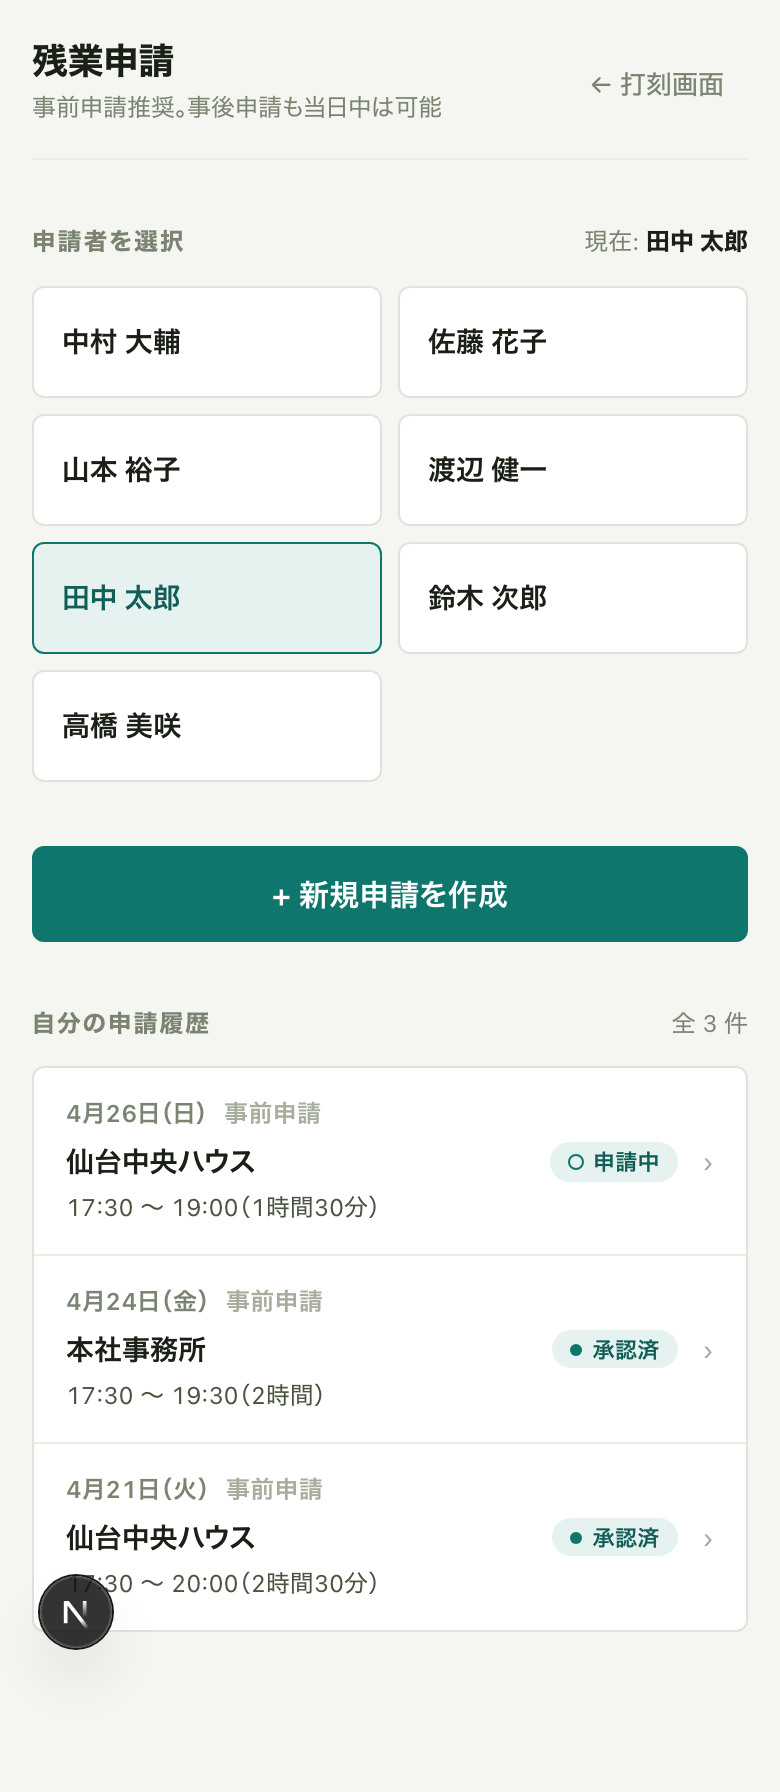
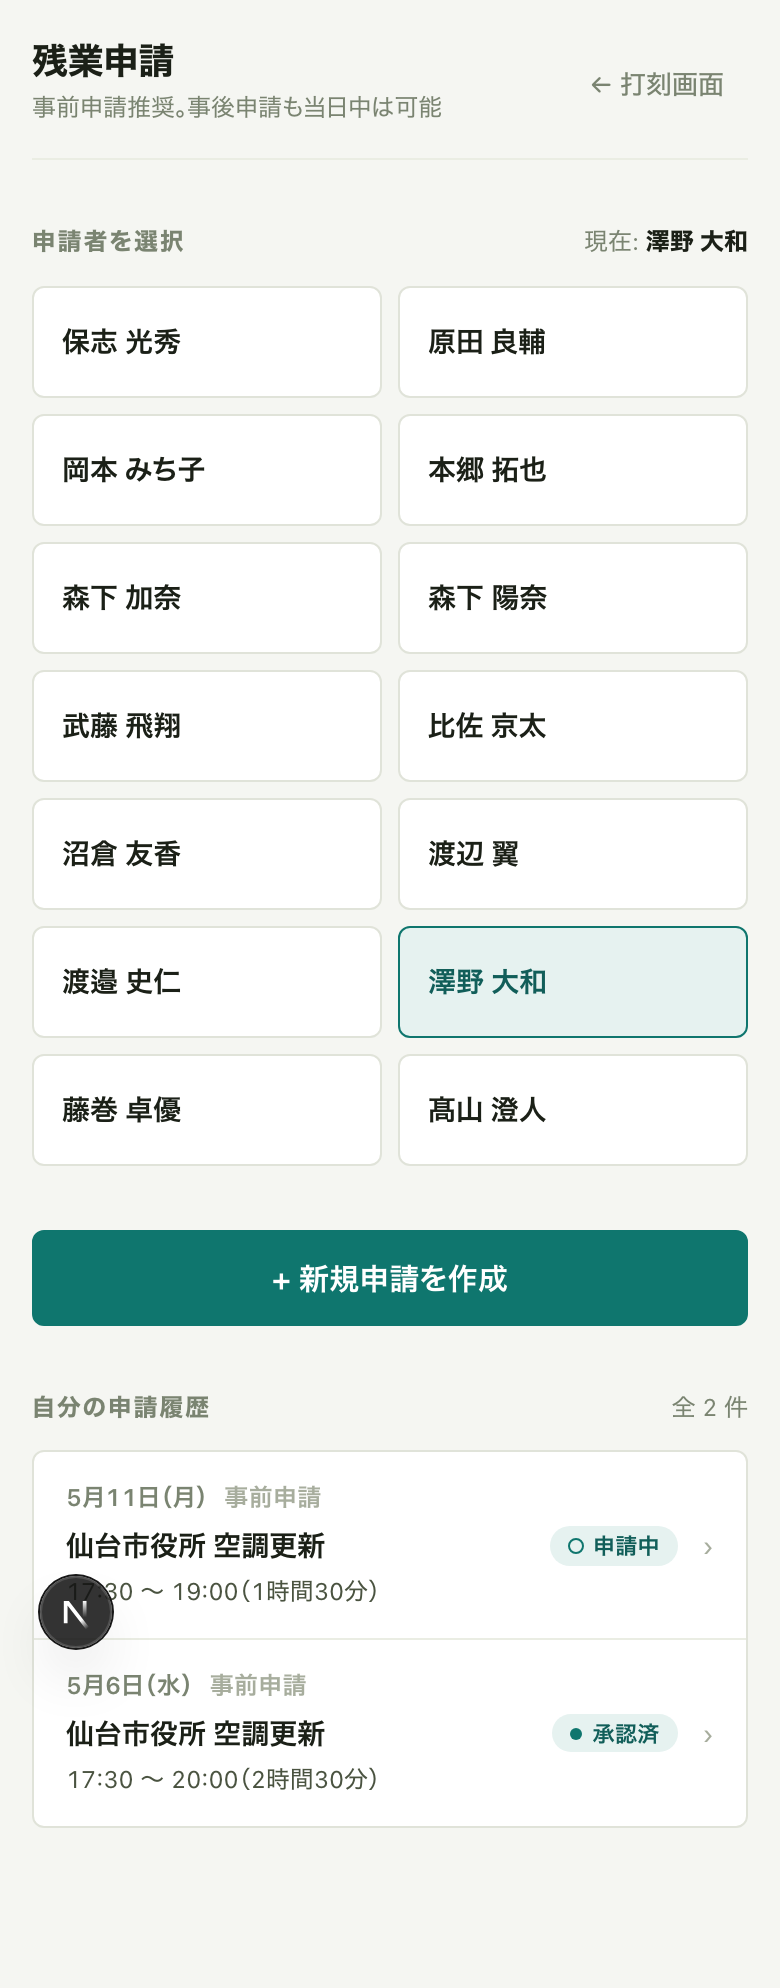
seed をニナウ社向けに差し替え（14名 + 空調工事現場）
- ユーザー14名: ニナウ10名（manager 6/member 4）+ 蛸と衣4名
- managerロール: 髙山・保志・武藤・本郷・渡辺翼・比佐
- WorkSite を空調工事業向けに置換（仙台市役所空調更新、鶴巻ビル空調保守等）
- seed-demo.ts: 14名分の本日打刻＋承認済6/申請中3/差戻1の残業申請デモデータ
- スクショ全画面を新seedで再撮影
- OVERVIEW.md の AI要約サンプル文を新データに合わせて更新

diff --git a/prisma/seed-demo.ts b/prisma/seed-demo.ts
@@ -16,37 +16,227 @@ async function main() {
   await prisma.timeRecord.deleteMany({ where: { timestamp: { gte: since } } });
 
   const records: { userId: string; type: string; timestamp: Date }[] = [
-    // 田中 太郎（member）: 通常勤務、昼休憩あり、午後出勤中
-    { userId: "田中 太郎", type: "IN", timestamp: todayAtJST(8, 5) },
-    { userId: "田中 太郎", type: "OUT", timestamp: todayAtJST(12, 10) },
-    { userId: "田中 太郎", type: "IN", timestamp: todayAtJST(13, 5) },
+    // 髙山 澄人（代表取締役）: 朝出勤、午前で外出退勤、午後再出勤中
+    { userId: "髙山 澄人", type: "IN", timestamp: todayAtJST(8, 0) },
+    { userId: "髙山 澄人", type: "OUT", timestamp: todayAtJST(11, 30) },
+    { userId: "髙山 澄人", type: "IN", timestamp: todayAtJST(14, 30) },
 
-    // 佐藤 花子（manager）: 朝から出勤中、長時間連続なし
-    { userId: "佐藤 花子", type: "IN", timestamp: todayAtJST(7, 55) },
+    // 保志 光秀（専務）: 朝から出勤中、まだ
+    { userId: "保志 光秀", type: "IN", timestamp: todayAtJST(7, 50) },
 
-    // 鈴木 次郎（member）: 早朝6:30出勤、まだ退勤せず → 長時間勤務赤バー
-    { userId: "鈴木 次郎", type: "IN", timestamp: todayAtJST(6, 30) },
+    // 武藤 飛翔（営業本部長）: 出勤→退勤済み
+    { userId: "武藤 飛翔", type: "IN", timestamp: todayAtJST(8, 30) },
+    { userId: "武藤 飛翔", type: "OUT", timestamp: todayAtJST(16, 0) },
 
-    // 高橋 美咲（manager）: 出勤→退勤済み
-    { userId: "高橋 美咲", type: "IN", timestamp: todayAtJST(9, 20) },
-    { userId: "高橋 美咲", type: "OUT", timestamp: todayAtJST(15, 30) },
+    // 本郷 拓也（部長）: 出勤中
+    { userId: "本郷 拓也", type: "IN", timestamp: todayAtJST(8, 15) },
 
-    // 渡辺 健一（member）: 早朝出勤、出勤中
-    { userId: "渡辺 健一", type: "IN", timestamp: todayAtJST(6, 0) },
+    // 渡辺 翼（工事部 部長）: 早朝6時出勤、まだ → 長時間勤務赤バー
+    { userId: "渡辺 翼", type: "IN", timestamp: todayAtJST(6, 0) },
 
-    // 山本 裕子（member）: 出勤→退勤済み
-    { userId: "山本 裕子", type: "IN", timestamp: todayAtJST(8, 30) },
-    { userId: "山本 裕子", type: "OUT", timestamp: todayAtJST(16, 0) },
+    // 比佐 京太（課長）: 出勤→現場移動退勤、午後再出勤
+    { userId: "比佐 京太", type: "IN", timestamp: todayAtJST(7, 40) },
+    { userId: "比佐 京太", type: "OUT", timestamp: todayAtJST(12, 0) },
+    { userId: "比佐 京太", type: "IN", timestamp: todayAtJST(13, 0) },
 
-    // 中村 大輔（member）: 本日未出勤（残業申請デモのため空ける）
+    // 澤野 大和（社員）: 早朝出勤、まだ → 長時間勤務赤バー
+    { userId: "澤野 大和", type: "IN", timestamp: todayAtJST(6, 30) },
+
+    // 原田 良輔（社員）: 出勤→退勤済み
+    { userId: "原田 良輔", type: "IN", timestamp: todayAtJST(8, 0) },
+    { userId: "原田 良輔", type: "OUT", timestamp: todayAtJST(15, 30) },
+
+    // 藤巻 卓優（社員）: 出勤中
+    { userId: "藤巻 卓優", type: "IN", timestamp: todayAtJST(8, 45) },
+
+    // 渡邉 史仁（社員）: 本日未出勤
+
+    // 蛸と衣 メンバー
+    // 沼倉 友香（社員）: 店舗早朝オープン業務、出勤→退勤済み
+    { userId: "沼倉 友香", type: "IN", timestamp: todayAtJST(9, 0) },
+    { userId: "沼倉 友香", type: "OUT", timestamp: todayAtJST(15, 0) },
+
+    // 森下 加奈（パート）: 出勤中
+    { userId: "森下 加奈", type: "IN", timestamp: todayAtJST(10, 0) },
+
+    // 岡本 みち子（パート）: 出勤→退勤済み
+    { userId: "岡本 みち子", type: "IN", timestamp: todayAtJST(10, 30) },
+    { userId: "岡本 みち子", type: "OUT", timestamp: todayAtJST(15, 30) },
+
+    // 森下 陽奈（バイト）: 本日未出勤
   ];
 
   for (const r of records) {
     await prisma.timeRecord.create({ data: r });
   }
 
-  const userCount = await prisma.user.count();
-  console.log(`Seeded ${records.length} time records for today (users: ${userCount})`);
+  console.log(`Seeded ${records.length} time records for today`);
+
+  // ---------- 残業申請のデモデータ ----------
+  await prisma.overtimeRequest.deleteMany();
+
+  const today = new Date();
+  today.setUTCHours(0, 0, 0, 0);
+  const wdToday = new Date(today.getTime() - 9 * 60 * 60 * 1000);
+  const dayOffset = (n: number) =>
+    new Date(wdToday.getTime() + n * 24 * 60 * 60 * 1000);
+  const at = (wd: Date, hh: number, mm: number) =>
+    new Date(wd.getTime() + (hh * 60 + mm) * 60 * 1000);
+
+  const sites = await prisma.workSite.findMany();
+  const siteByName = (n: string) =>
+    sites.find((s) => s.name === n) ?? sites[0];
+
+  const create = (data: Parameters<typeof prisma.overtimeRequest.create>[0]["data"]) =>
+    prisma.overtimeRequest.create({ data });
+
+  // 承認済み（今月）
+  await create({
+    userId: "澤野 大和",
+    workDate: dayOffset(-5),
+    startAt: at(dayOffset(-5), 17, 30),
+    endAt: at(dayOffset(-5), 20, 0),
+    durationMinutes: 150,
+    workSiteName: "仙台市役所 空調更新",
+    workSiteId: siteByName("仙台市役所 空調更新").id,
+    description: "搬入機器の据付調整。現場引き渡し前の最終確認",
+    requestType: "pre",
+    status: "approved",
+    reviewerId: "本郷 拓也",
+    reviewedAt: dayOffset(-5),
+  });
+  await create({
+    userId: "原田 良輔",
+    workDate: dayOffset(-4),
+    startAt: at(dayOffset(-4), 18, 0),
+    endAt: at(dayOffset(-4), 21, 0),
+    durationMinutes: 180,
+    workSiteName: "鶴巻ビル B棟 セントラル空調保守",
+    workSiteId: siteByName("鶴巻ビル B棟 セントラル空調保守").id,
+    description: "冷却塔の異音調査。閉店後の作業のため夜間対応",
+    requestType: "post",
+    status: "approved",
+    reviewerId: "渡辺 翼",
+    reviewedAt: dayOffset(-4),
+  });
+  await create({
+    userId: "藤巻 卓優",
+    workDate: dayOffset(-3),
+    startAt: at(dayOffset(-3), 17, 30),
+    endAt: at(dayOffset(-3), 19, 0),
+    durationMinutes: 90,
+    workSiteName: "若林マンション パッケージ空調入替",
+    workSiteId: siteByName("若林マンション パッケージ空調入替").id,
+    description: "既設機の搬出残作業と廃材整理",
+    requestType: "pre",
+    status: "approved",
+    reviewerId: "本郷 拓也",
+    reviewedAt: dayOffset(-3),
+  });
+  await create({
+    userId: "渡邉 史仁",
+    workDate: dayOffset(-2),
+    startAt: at(dayOffset(-2), 17, 30),
+    endAt: at(dayOffset(-2), 20, 30),
+    durationMinutes: 180,
+    workSiteName: "名取オフィス 換気設備工事",
+    workSiteId: siteByName("名取オフィス 換気設備工事").id,
+    description: "ダクト改修工事の補助、配管接続作業",
+    requestType: "pre",
+    status: "approved",
+    reviewerId: "渡辺 翼",
+    reviewedAt: dayOffset(-2),
+  });
+  await create({
+    userId: "比佐 京太",
+    workDate: dayOffset(-2),
+    startAt: at(dayOffset(-2), 17, 30),
+    endAt: at(dayOffset(-2), 19, 30),
+    durationMinutes: 120,
+    workSiteName: "本社事務所",
+    workSiteId: siteByName("本社事務所").id,
+    description: "月次の工事案件進捗まとめと営業会議資料作成",
+    requestType: "pre",
+    status: "approved",
+    reviewerId: "武藤 飛翔",
+    reviewedAt: dayOffset(-2),
+  });
+  await create({
+    userId: "原田 良輔",
+    workDate: dayOffset(-1),
+    startAt: at(dayOffset(-1), 17, 30),
+    endAt: at(dayOffset(-1), 19, 0),
+    durationMinutes: 90,
+    workSiteName: "仙台市役所 空調更新",
+    workSiteId: siteByName("仙台市役所 空調更新").id,
+    description: "翌日の検査立会いに向けた前準備",
+    requestType: "pre",
+    status: "approved",
+    reviewerId: "本郷 拓也",
+    reviewedAt: dayOffset(-1),
+  });
+
+  // 申請中（本日提出）
+  await create({
+    userId: "澤野 大和",
+    workDate: wdToday,
+    startAt: at(wdToday, 17, 30),
+    endAt: at(wdToday, 19, 0),
+    durationMinutes: 90,
+    workSiteName: "仙台市役所 空調更新",
+    workSiteId: siteByName("仙台市役所 空調更新").id,
+    description: "試運転時の制御パラメータ調整。施主立会いのため定時超過",
+    requestType: "pre",
+    status: "submitted",
+  });
+  await create({
+    userId: "藤巻 卓優",
+    workDate: wdToday,
+    startAt: at(wdToday, 18, 0),
+    endAt: at(wdToday, 20, 45),
+    durationMinutes: 165,
+    workSiteName: "鶴巻ビル B棟 セントラル空調保守",
+    workSiteId: siteByName("鶴巻ビル B棟 セントラル空調保守").id,
+    description: "冷凍機の緊急停止対応、ガス漏れ確認と一次修繕",
+    requestType: "post",
+    status: "submitted",
+  });
+  await create({
+    userId: "渡邉 史仁",
+    workDate: wdToday,
+    startAt: at(wdToday, 17, 30),
+    endAt: at(wdToday, 18, 30),
+    durationMinutes: 60,
+    workSiteName: "若林マンション パッケージ空調入替",
+    workSiteId: siteByName("若林マンション パッケージ空調入替").id,
+    description: "資材搬入の遅延対応、明日の段取り調整",
+    requestType: "pre",
+    status: "submitted",
+  });
+
+  // 差戻
+  await create({
+    userId: "原田 良輔",
+    workDate: dayOffset(-1),
+    startAt: at(dayOffset(-1), 17, 30),
+    endAt: at(dayOffset(-1), 22, 0),
+    durationMinutes: 270,
+    workSiteName: "名取オフィス 換気設備工事",
+    workSiteId: siteByName("名取オフィス 換気設備工事").id,
+    description: "現場対応",
+    requestType: "post",
+    status: "sent_back",
+    reviewerId: "渡辺 翼",
+    reviewedAt: new Date(),
+    reviewComment:
+      "具体的な作業内容を記載してください（どの工程に何時間かかったか）。",
+  });
+
+  const counts = await prisma.overtimeRequest.groupBy({
+    by: ["status"],
+    _count: true,
+  });
+  console.log("Overtime requests:", counts);
 }
 
 main()

diff --git a/prisma/seed.ts b/prisma/seed.ts
@@ -3,21 +3,32 @@ import { PrismaClient } from "@prisma/client";
 const prisma = new PrismaClient();
 
 const USERS: { name: string; role: "member" | "manager" }[] = [
-  { name: "田中 太郎", role: "member" },
-  { name: "佐藤 花子", role: "manager" },
-  { name: "鈴木 次郎", role: "member" },
-  { name: "高橋 美咲", role: "manager" },
-  { name: "渡辺 健一", role: "member" },
-  { name: "山本 裕子", role: "member" },
-  { name: "中村 大輔", role: "member" },
+  // ニナウ（経営層・管理職）
+  { name: "髙山 澄人", role: "manager" },
+  { name: "保志 光秀", role: "manager" },
+  { name: "武藤 飛翔", role: "manager" },
+  { name: "本郷 拓也", role: "manager" },
+  { name: "渡辺 翼", role: "manager" },
+  { name: "比佐 京太", role: "manager" },
+  // ニナウ（社員）
+  { name: "澤野 大和", role: "member" },
+  { name: "原田 良輔", role: "member" },
+  { name: "藤巻 卓優", role: "member" },
+  { name: "渡邉 史仁", role: "member" },
+  // 蛸と衣
+  { name: "沼倉 友香", role: "member" },
+  { name: "森下 加奈", role: "member" },
+  { name: "岡本 みち子", role: "member" },
+  { name: "森下 陽奈", role: "member" },
 ];
 
 const WORK_SITES = [
-  "仙台中央ハウス",
-  "若林圃場A",
-  "名取育苗センター",
-  "亘理レタス工場",
+  "仙台市役所 空調更新",
+  "鶴巻ビル B棟 セントラル空調保守",
+  "若林マンション パッケージ空調入替",
+  "名取オフィス 換気設備工事",
   "本社事務所",
+  "蛸と衣 店舗",
 ];
 
 const APP_SETTINGS: { key: string; value: string }[] = [

diff --git a/scripts/take-screenshots.js b/scripts/take-screenshots.js
@@ -57,7 +57,7 @@ const PAGES = [
   // 申請者ホーム（履歴あり、田中 太郎）
   {
     name: 'desktop-overtime',
-    path: '/overtime?actor=' + encodeURIComponent('田中 太郎'),
+    path: '/overtime?actor=' + encodeURIComponent('澤野 大和'),
     device: 'desktop',
     fullPage: true,
     waitMs: 1000,
@@ -65,7 +65,7 @@ const PAGES = [
   // 新規申請フォーム（ステップ1: 入力）
   {
     name: 'desktop-overtime-new',
-    path: '/overtime/new?actor=' + encodeURIComponent('田中 太郎'),
+    path: '/overtime/new?actor=' + encodeURIComponent('澤野 大和'),
     device: 'desktop',
     fullPage: true,
     waitMs: 1000,
@@ -89,7 +89,7 @@ const PAGES = [
   // モバイル: 申請者ホーム
   {
     name: 'mobile-overtime',
-    path: '/overtime?actor=' + encodeURIComponent('田中 太郎'),
+    path: '/overtime?actor=' + encodeURIComponent('澤野 大和'),
     device: 'mobile',
     fullPage: true,
     waitMs: 1000,
@@ -97,7 +97,7 @@ const PAGES = [
   // モバイル: 新規申請フォーム
   {
     name: 'mobile-overtime-new',
-    path: '/overtime/new?actor=' + encodeURIComponent('田中 太郎'),
+    path: '/overtime/new?actor=' + encodeURIComponent('澤野 大和'),
     device: 'mobile',
     fullPage: true,
     waitMs: 1000,

diff --git a/docs/OVERVIEW.md b/docs/OVERVIEW.md
@@ -42,7 +42,7 @@
 
 ### 4. AI今日のサマリー（ルールベース → 将来Claude連携予定）
 
-「午後現在、4名が出勤中、退勤済み2名、合計労働時間50.4時間。鈴木次郎さんが11.3時間勤務。長時間労働に注意してください。」のような1行要約を自動生成。管理者が**最初に見るべき1行**をダッシュボード先頭に固定表示。
+「夕方現在、8名が出勤中、退勤済み4名、合計労働時間101.8時間。保志 光秀さんが10.0時間連続で出勤中、退勤打刻忘れの可能性があります。」のような1行要約を自動生成。管理者が**最初に見るべき1行**をダッシュボード先頭に固定表示。
 
 ### 5. 残業申請（事前／事後・差戻し付きワークフロー）
 
@@ -129,3 +129,21 @@
 - **CSV出力**: UTF-8 BOM付き・Excel互換。承認済デフォルト、`?status=all` で却下含む全件
   - 列: 申請ID / 業務日 / 申請者 / 申請種別 / 状態 / 開始時刻 / 終了時刻 / 残業（分） / 残業（h:mm） / **現場名** / **作業内容** / 承認者 / 承認日時 / 差戻コメント
 
+---
+
+> **デモモード** のためデータはローカルSQLiteに保存されます。本番運用時はPostgres / Turso / 他クラウドDBに切り替え可能です。
+
+---
+
+## 技術構成
+
+| 項目 | 採用技術 |
+|---|---|
+| フロントエンド | Next.js 16（App Router, React 19） |
+| バックエンド | Server Actions + Route Handlers（Server Components主体） |
+| データベース | SQLite（デモ） / Postgres等に切替可能 |
+| ORM | Prisma 6 |
+| スタイル | plain CSS（CSS変数でデザイントークン化） |
+| 型 | TypeScript |
+| 開発サーバー | Turbopack |
+| 管理者認証 | 環境変数で4桁PIN（HMAC-SHA256署名Cookie、未設定時はDEMO MODE） |
